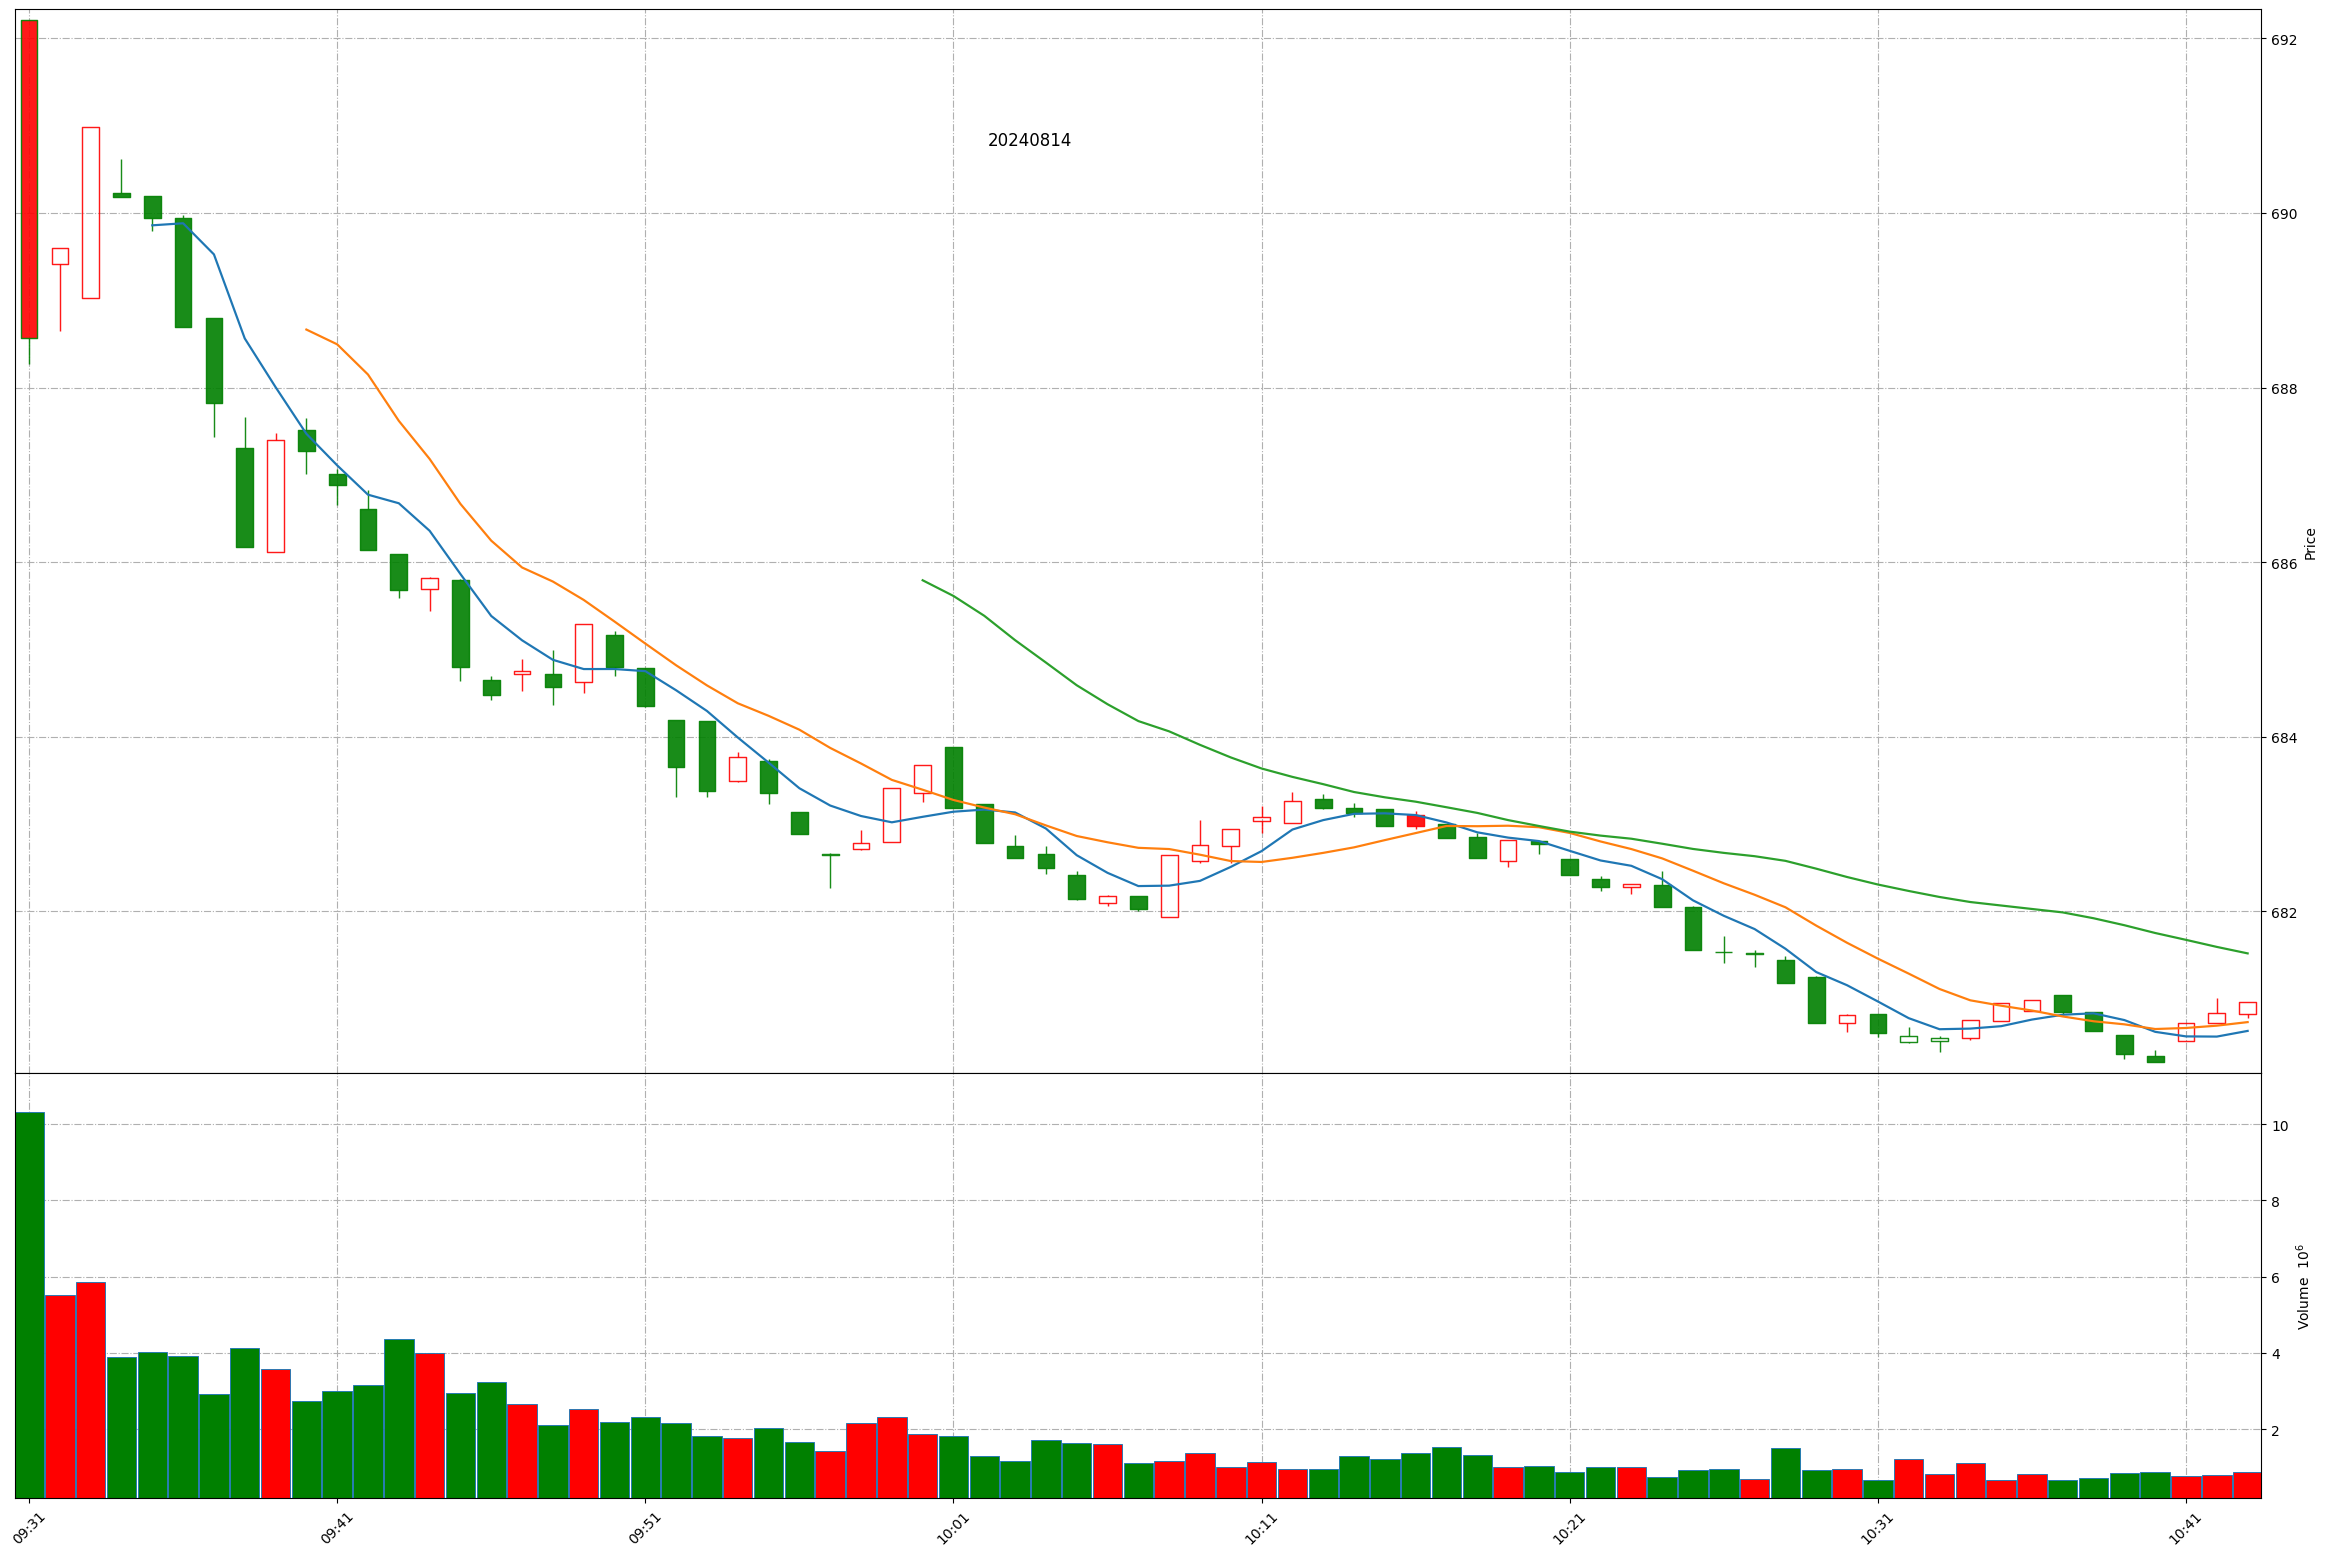
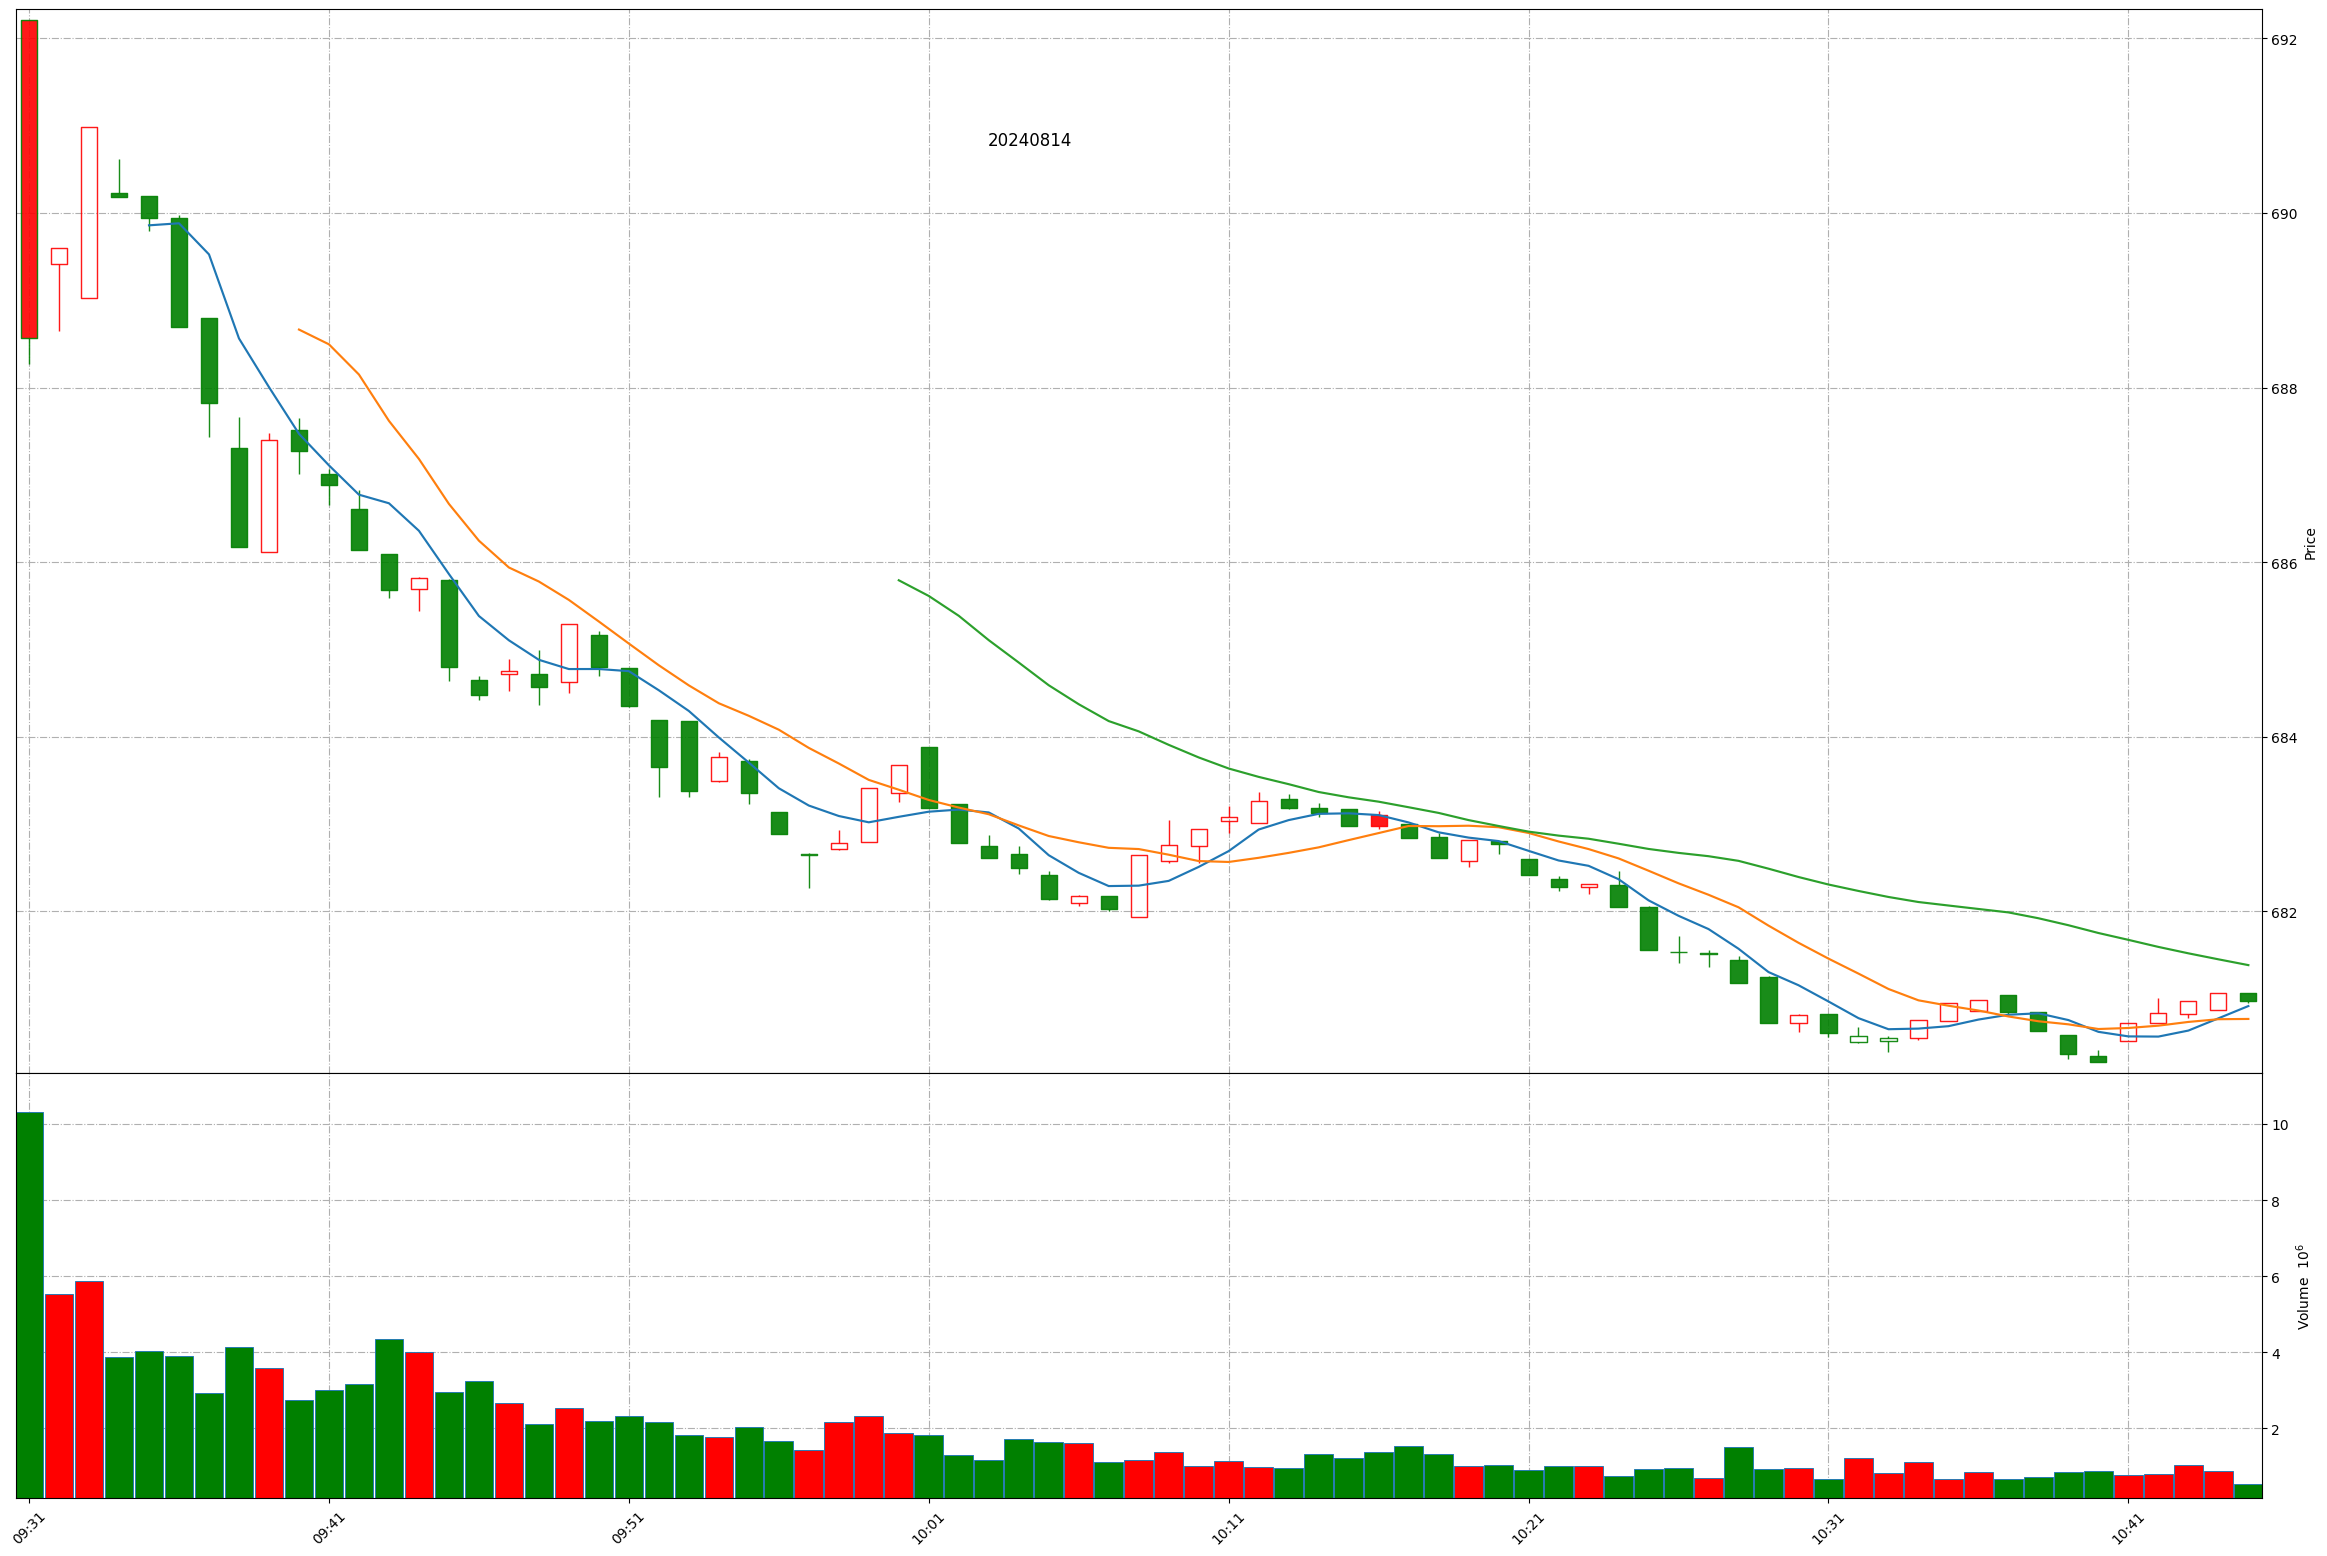
Github action update at 2024-08-14 10:44:31.

diff --git a/README.md b/README.md
@@ -1,11 +1,11 @@
 
 # Daily-A-share-market-quotes 每日 A 股指数（5min 更新）- 20240814
 
-### 上证指数 20240814 10:42
+### 上证指数 20240814 10:44
 ![](./fig/2024/8/20240814-sh000001.png)
 
-### 深证成指 20240814 10:42
+### 深证成指 20240814 10:44
 ![](./fig/2024/8/20240814-sz399001.png)
 
-### 北证50 20240814 10:42
+### 北证50 20240814 10:44
 ![](./fig/2024/8/20240814-bj899050.png)
